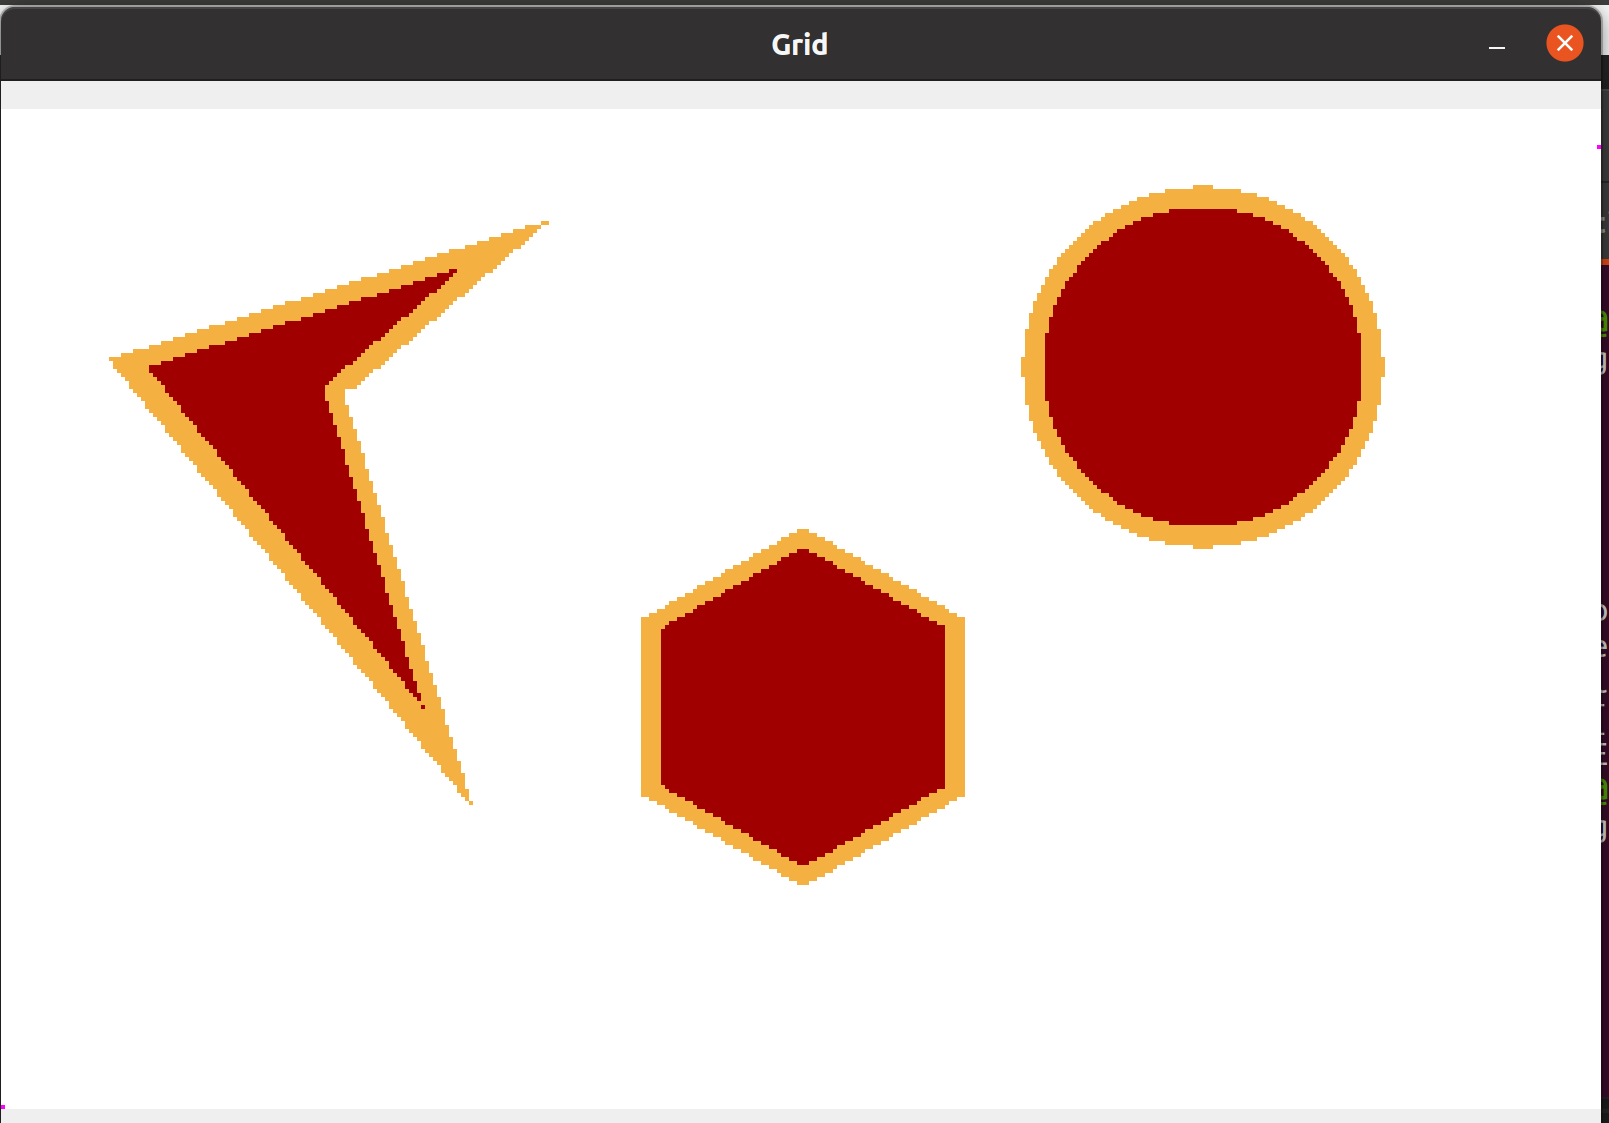
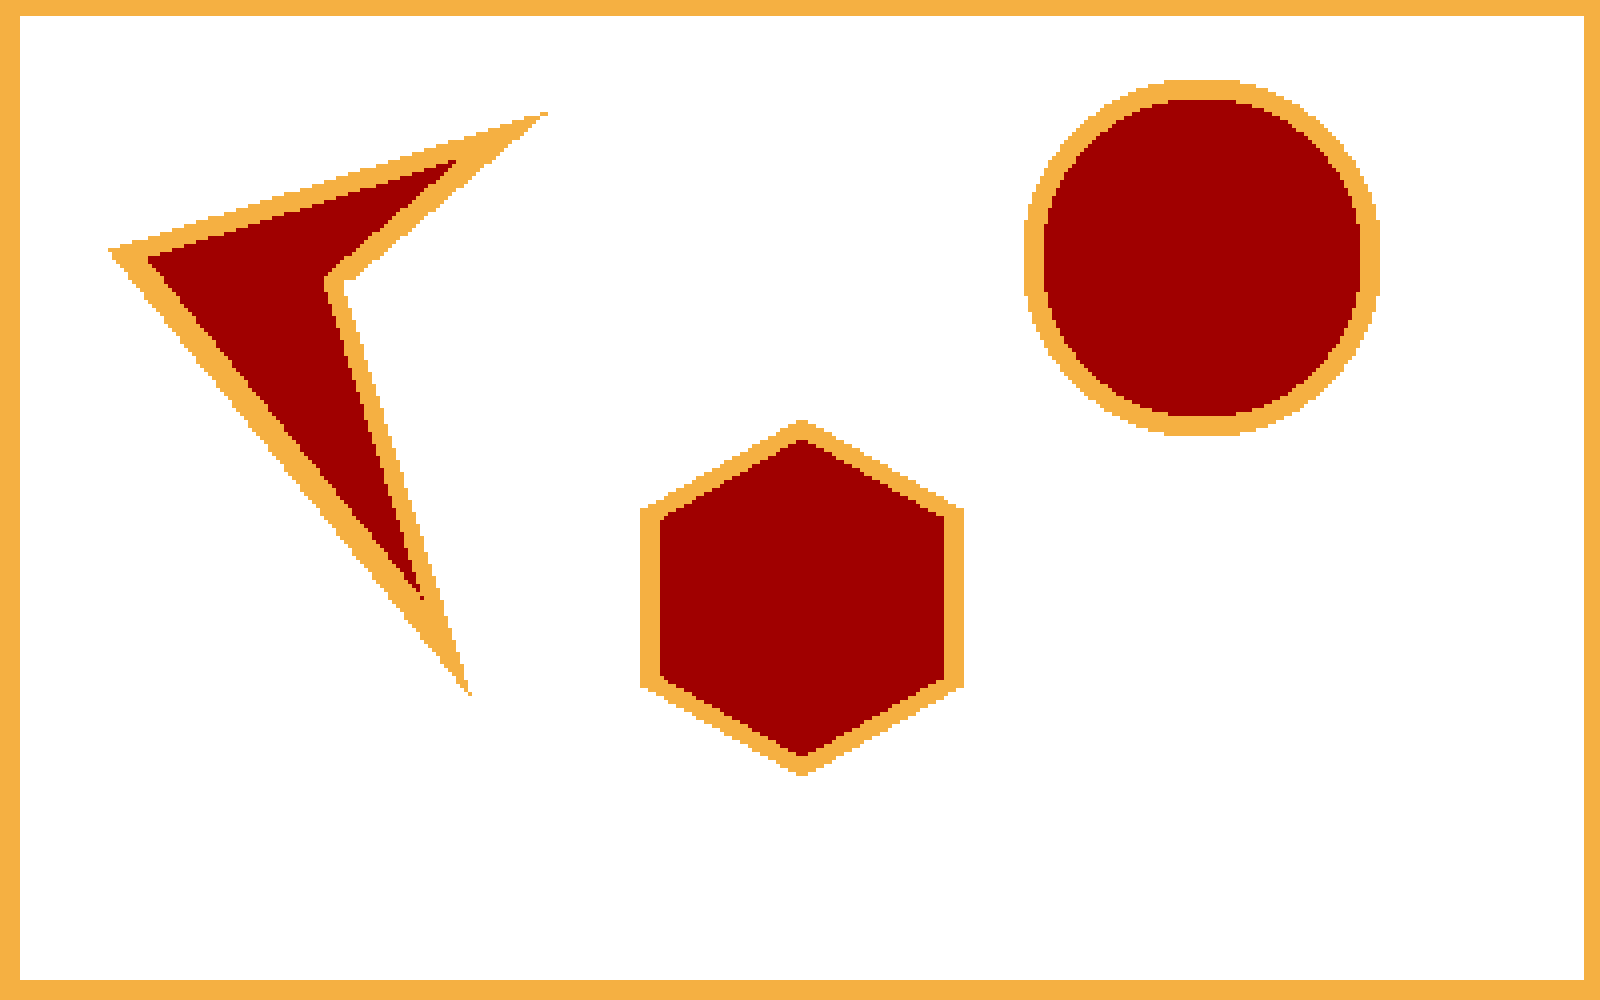
clearance on the grid edges of 5mm

Changed region(s): [[0.0, 0.0, 1.0, 1.0], [0.375, 0.403, 0.625, 0.558], [0.375, 0.682, 0.625, 0.806]]

diff --git a/Dijkstra-pathplanning-Aditi-Ramadwar.py b/Dijkstra-pathplanning-Aditi-Ramadwar.py
@@ -39,7 +39,7 @@ def arrow_boundry(x,y):
     side_2 = (0.857 * x + 104.429 - y) <= 0 #up right
     min_line = (-0.114 * x + 189.091 - y) <= 0
     side_3 = (-3.2 * x + 451 - y) >= 0 # down right
-    side_4 = (-1.232 * x + 219.348 - y) <= 0 #down left
+    side_4 = (-1.2 * x + 219.348 - y) <= 0 #down left
     return (side_1 and side_2 and min_line) or (side_3 and side_4 and not min_line)
 
 def arrow(x, y):
@@ -146,7 +146,8 @@ c2c_matrix = float('inf')*c2c_matrix
 for x_pos in range(w.shape[0]):
     for y_pos in range(w.shape[1]):
         # check if point is in any of the obstacle space
-        if(hexa_boundry(x_pos, y_pos) or (circle_boundry(x_pos, y_pos)) or arrow_boundry(x_pos, y_pos)):
+        if(hexa_boundry(x_pos, y_pos) or (circle_boundry(x_pos, y_pos)) or
+             arrow_boundry(x_pos, y_pos) or x_pos < 5 or y_pos < 5 or x_pos > w.shape[0]-5 or y_pos > w.shape[1]-5):
             w[x_pos, y_pos] = [66, 176, 245]
             c2c_matrix[x_pos, y_pos] = -1
         if (circle(x_pos, y_pos) or hexa(x_pos, y_pos) or arrow(x_pos, y_pos)):
@@ -163,12 +164,12 @@ def getGoal():
     x = int(input('Enter x coordinate for goal point: '))
     y = int(input('Enter y coordinate for goal point: '))
     return (x, y)
-print("Find the shortest path in a", w.shape[0],"x", w.shape[1], "space.")
+print("Find the shortest path in a", w.shape[0],"x", w.shape[1], "space with a clearance of 5mm.")
 
 start = getStart()
 goal = getGoal()
 
-# start = (0, 0)
+# start = (5, 5)
 # goal = (10, 10)
 
 #check if goal not is not in obstacle space
@@ -190,6 +191,7 @@ else:
         shortest_path = backtrack(parents, goal, start)
         print("Done, shortest path found in", len(shortest_path), "steps.")
         print("Starting Visualizaiton!")
+
         # animate nodes explored
         for vis in visited:
             w[int(vis[0]), int(vis[1]), :] = [255, 0, 0]
@@ -213,7 +215,7 @@ else:
             img = cv2.rotate(img, cv2.cv2.ROTATE_90_CLOCKWISE)
             cv2.imshow("Grid", img)
             cv2.waitKey(1)
-        # cv2.imwrite("results/test_case_2/Exploration.png", img)
+        # cv2.imwrite("results/test_case_1/Exploration.png", img)
         cv2.waitKey(0)
         cv2.destroyAllWindows()
     else:

diff --git a/README.md b/README.md
@@ -28,7 +28,7 @@ The red area is the obstacle space and the orange part is the clearance area.
 <img  alt="grid"  src="results/grid.png"  width="80%" /> 
 
 ### Exploration
-Start point = (0, 0)
+Start point = (6, 6)
 
 Goal point = (340, 210)
 
